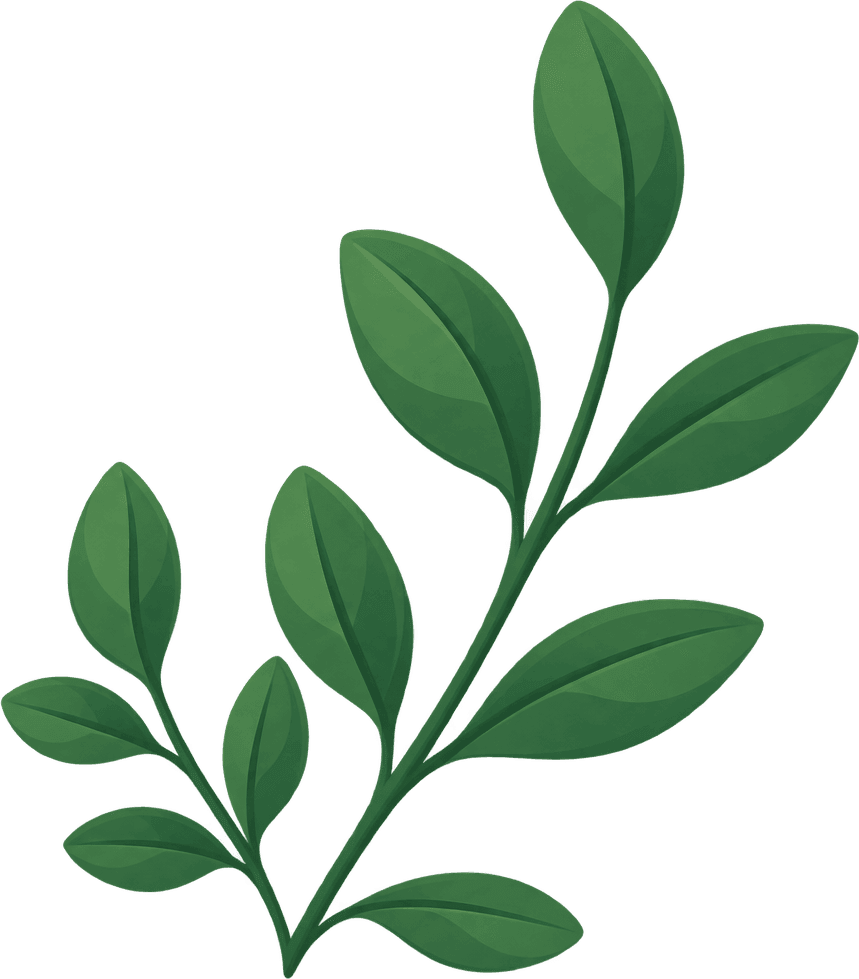
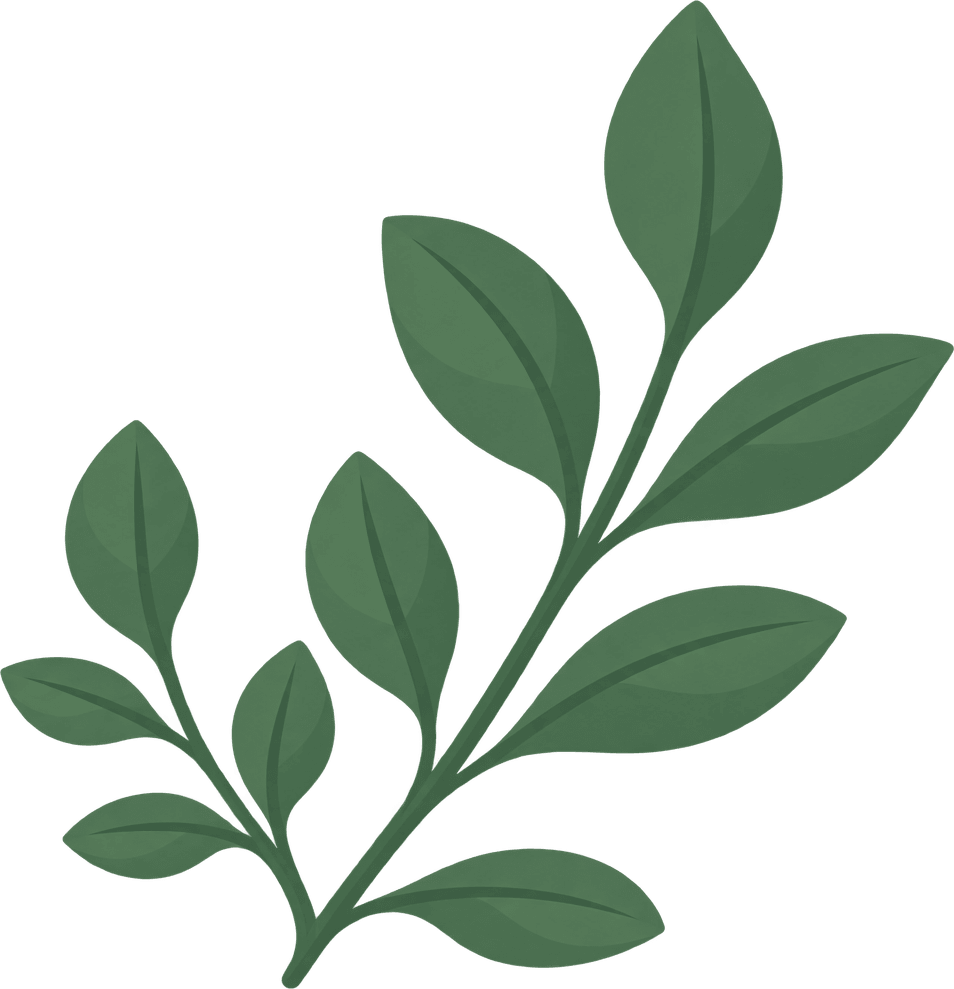
Fix header illustration positioning + reprocess swapped artwork
Reorders WaveHeader's layers so the illustration draws on top of the wave
band instead of underneath it - the previous bottom-anchoring positioned
illustrations low enough that the cream wave shape was painting over their
bottom half, making them look cut off and smaller than they are. Bumped
the anchor up and sized up the Create Group / Add a Task illustrations
further per feedback.

Also reprocesses the 5 illustration files that got swapped for new
artwork (Add a Task header, Create Group header, Groups empty state,
Notifications header, Settings header) through the same flood-fill
pipeline, and updates each screen's aspect ratio to match the new art's
actual dimensions.

Changed region(s): [[0.0, 0.0, 1.0, 1.0]]

diff --git a/mobile/src/components/WaveHeader.tsx b/mobile/src/components/WaveHeader.tsx
@@ -26,12 +26,12 @@ export default function WaveHeader({
   return (
     <View style={[styles.wrap, style]}>
       <View style={[styles.content, { paddingTop: insets.top + 12 }, contentStyle]}>{children}</View>
-      {illustration && <View style={styles.illustration}>{illustration}</View>}
       <View style={styles.waveBand} pointerEvents="none">
         <Svg width="100%" height={WAVE_BAND} viewBox="0 0 400 34" preserveAspectRatio="none">
           <Path d="M0,16 C110,40 290,-10 400,14 L400,34 L0,34 Z" fill={colors.background} />
         </Svg>
       </View>
+      {illustration && <View style={styles.illustration}>{illustration}</View>}
     </View>
   );
 }
@@ -48,8 +48,8 @@ const styles = StyleSheet.create({
   },
   illustration: {
     position: "absolute",
-    bottom: 18,
-    right: 12,
+    bottom: 30,
+    right: 10,
   },
   waveBand: {
     position: "absolute",

diff --git a/mobile/src/screens/tasks/CreateEditTaskScreen.tsx b/mobile/src/screens/tasks/CreateEditTaskScreen.tsx
@@ -262,7 +262,7 @@ export default function CreateEditTaskScreen({ route, navigation }: any) {
       enableOnAndroid
       extraScrollHeight={24}
     >
-      <WaveHeader illustration={<IllustrationCard source={HEADER_IMAGE} width={150} aspectRatio={1388 / 876} />}>
+      <WaveHeader illustration={<IllustrationCard source={HEADER_IMAGE} width={155} aspectRatio={1489 / 909} />}>
         <View style={styles.topRow}>
           <AnimatedPressable onPress={() => navigation.goBack()} style={styles.backButton}>
             <Ionicons name="arrow-back" size={22} color="#fff" />

diff --git a/mobile/src/screens/groups/CreateGroupScreen.tsx b/mobile/src/screens/groups/CreateGroupScreen.tsx
@@ -59,7 +59,7 @@ export default function CreateGroupScreen({ route, navigation }: any) {
   });
 
   const Header = (
-    <WaveHeader illustration={<IllustrationCard source={HEADER_IMAGE} width={155} aspectRatio={1508 / 966} />}>
+    <WaveHeader illustration={<IllustrationCard source={HEADER_IMAGE} width={170} aspectRatio={1449 / 796} />}>
       <View style={styles.topRow}>
         <AnimatedPressable onPress={() => navigation.goBack()} style={styles.backButton}>
           <Ionicons name="arrow-back" size={22} color="#fff" />

diff --git a/mobile/src/screens/groups/GroupsHomeScreen.tsx b/mobile/src/screens/groups/GroupsHomeScreen.tsx
@@ -107,7 +107,7 @@ export default function GroupsHomeScreen({ navigation }: any) {
               icon="people"
               badgeIcon="hand-left"
               image={GROUPS_EMPTY_IMAGE}
-              imageAspectRatio={1514 / 967}
+              imageAspectRatio={1388 / 831}
               title="You're not in a Tribe yet"
               body={'Tap "Find a Tribe" above to apply with one of your tasks, or form your own Tribe if you\'re a Subscriber.'}
             >

diff --git a/mobile/src/screens/NotificationsScreen.tsx b/mobile/src/screens/NotificationsScreen.tsx
@@ -117,7 +117,7 @@ export default function NotificationsScreen({ navigation }: any) {
 
   return (
     <View style={styles.container}>
-      <WaveHeader illustration={<IllustrationCard source={HEADER_IMAGE} width={110} aspectRatio={979 / 790} rounded={radii.lg} />}>
+      <WaveHeader illustration={<IllustrationCard source={HEADER_IMAGE} width={125} aspectRatio={1127 / 1022} />}>
         <View style={styles.topRow}>
           <TribrLogo />
         </View>
